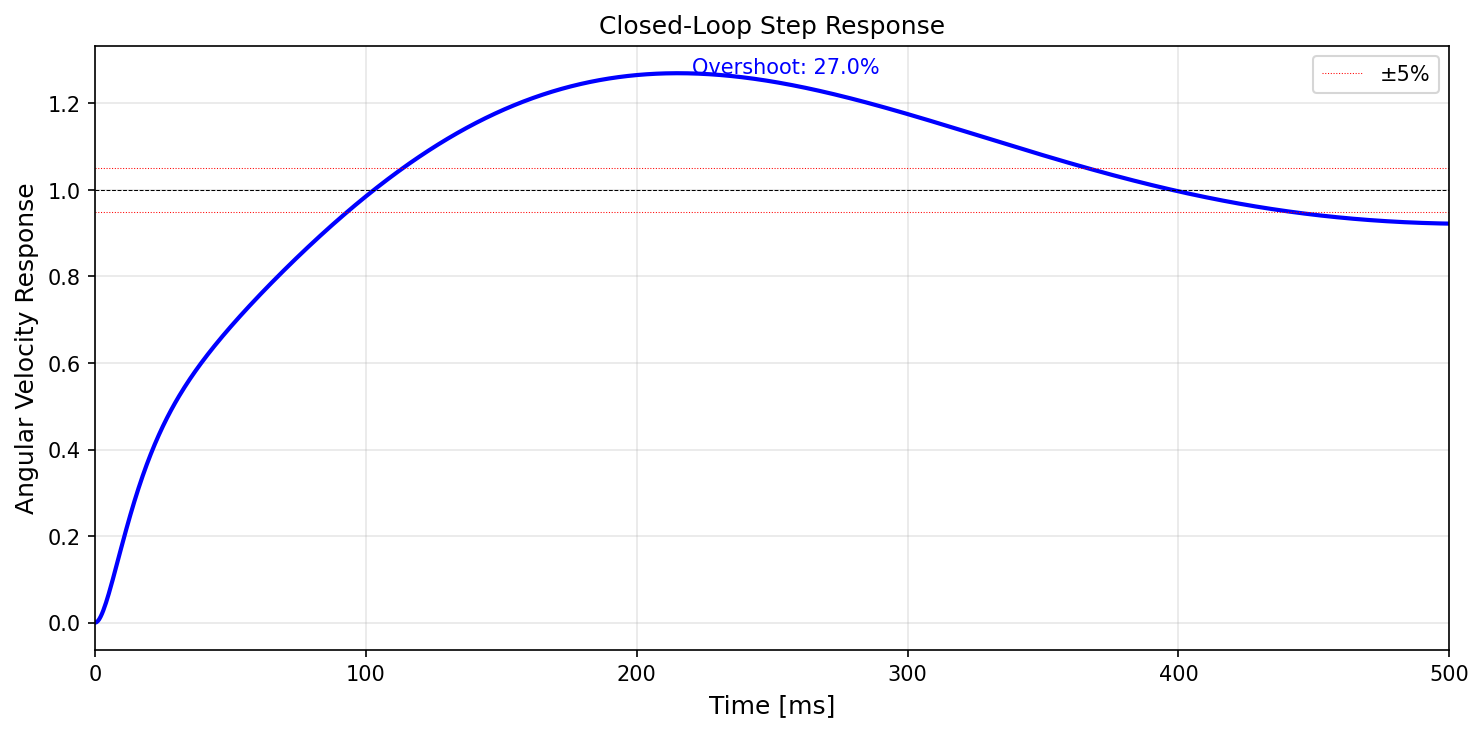
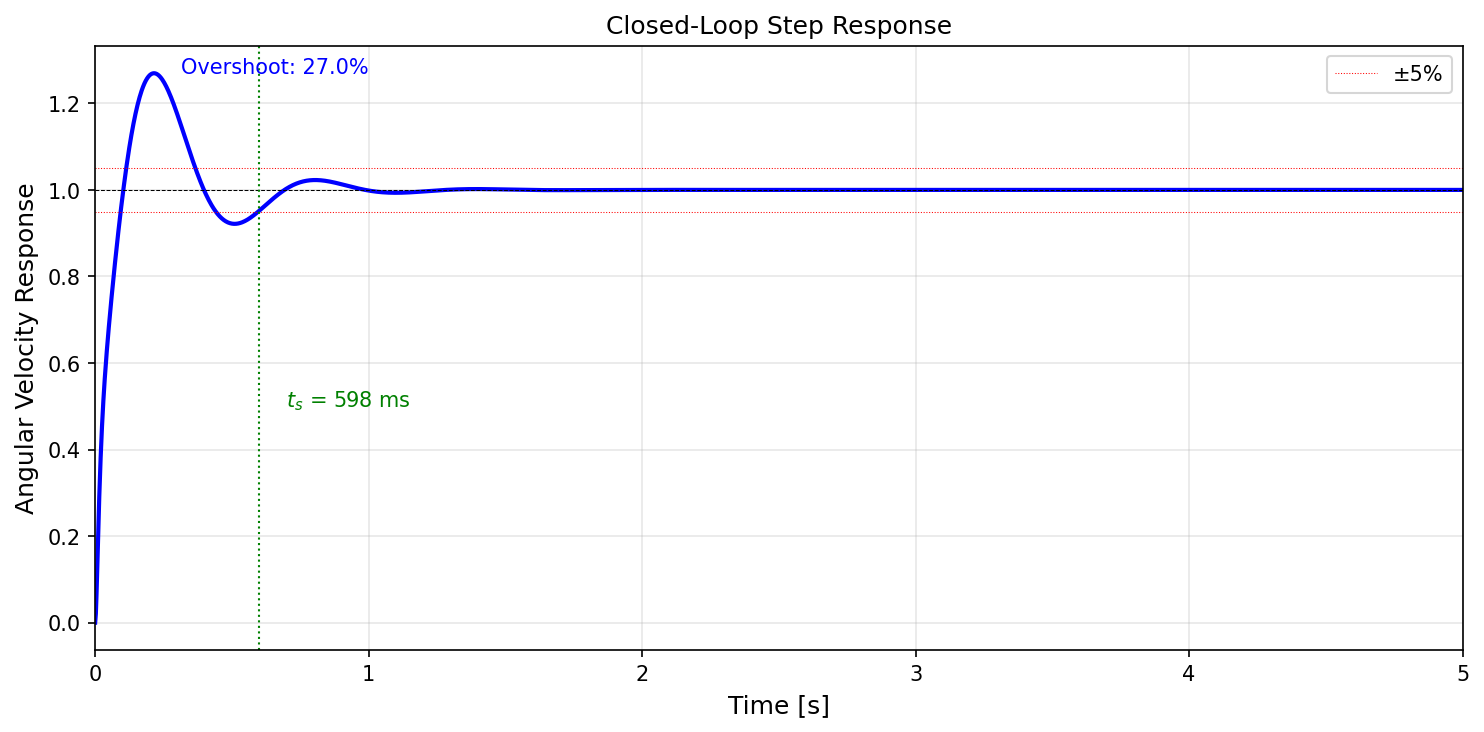
docs: change step response plot to 5 seconds duration

diff --git a/docs/architecture/scripts/pid_loop_shaping.py b/docs/architecture/scripts/pid_loop_shaping.py
@@ -276,11 +276,11 @@ def plot_closed_loop_step(Kp, Ti, Td, eta, filename):
 
     # Create transfer function and compute step response
     sys = signal.TransferFunction(t_num, t_den)
-    t = np.linspace(0, 0.5, 1000)
+    t = np.linspace(0, 5, 2000)
     t_out, y = signal.step(sys, T=t)
 
     fig, ax = plt.subplots(figsize=(10, 5))
-    ax.plot(t_out * 1000, y, 'b-', linewidth=2)
+    ax.plot(t_out, y, 'b-', linewidth=2)
     ax.axhline(y=1, color='k', linestyle='--', linewidth=0.5)
     ax.axhline(y=1.05, color='r', linestyle=':', linewidth=0.5, label='±5%')
     ax.axhline(y=0.95, color='r', linestyle=':', linewidth=0.5)
@@ -291,21 +291,21 @@ def plot_closed_loop_step(Kp, Ti, Td, eta, filename):
         # Find first time it stays within 5%
         for i in range(len(settled_idx)):
             if np.all(np.abs(y[settled_idx[i]:] - 1) < 0.05):
-                ts = t_out[settled_idx[i]] * 1000
+                ts = t_out[settled_idx[i]]
                 ax.axvline(x=ts, color='g', linestyle=':', linewidth=1)
-                ax.text(ts + 5, 0.5, f'$t_s$ = {ts:.0f} ms', fontsize=10, color='g')
+                ax.text(ts + 0.1, 0.5, f'$t_s$ = {ts*1000:.0f} ms', fontsize=10, color='g')
                 break
 
     # Find overshoot
     overshoot = (np.max(y) - 1) * 100
-    ax.text(t_out[np.argmax(y)] * 1000 + 5, np.max(y),
+    ax.text(t_out[np.argmax(y)] + 0.1, np.max(y),
             f'Overshoot: {overshoot:.1f}%', fontsize=10, color='b')
 
-    ax.set_xlabel('Time [ms]', fontsize=12)
+    ax.set_xlabel('Time [s]', fontsize=12)
     ax.set_ylabel('Angular Velocity Response', fontsize=12)
     ax.set_title('Closed-Loop Step Response', fontsize=12)
     ax.grid(True, alpha=0.3)
-    ax.set_xlim([0, 500])
+    ax.set_xlim([0, 5])
     ax.legend()
 
     plt.tight_layout()
